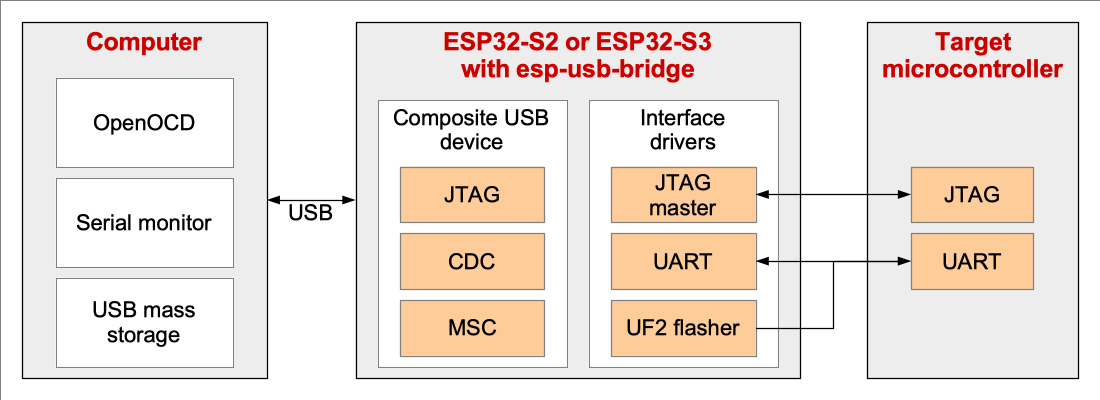
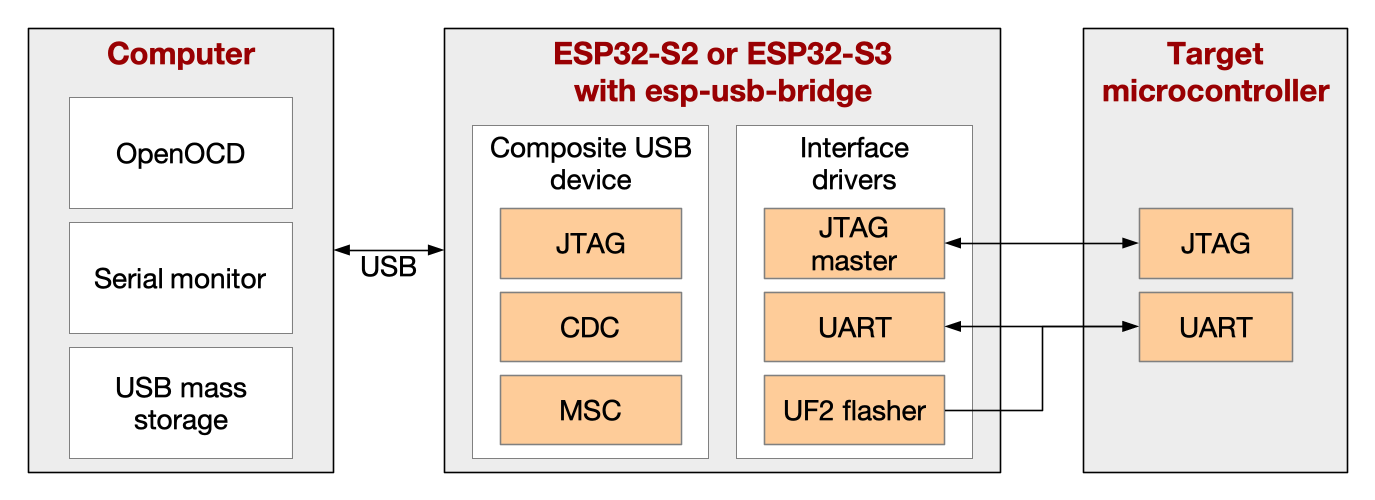
readme: replace image with higher resolution one

diff --git a/README.md b/README.md
@@ -6,7 +6,7 @@ bridge between a computer (PC) and a target microcontroller (MCU). It can serve 
 
 The concept of ESP USB Bridge is shown in the following figure.
 
-<img src="images/concept.png" height="400" alt="ESP USB Bridge concept">
+![ESP USB Bridge concept](images/concept.png)
 
 ESP32-S2 creates a composite USB device accessible from the PC when they are connected through an USB cable. The main
 features are the following.
